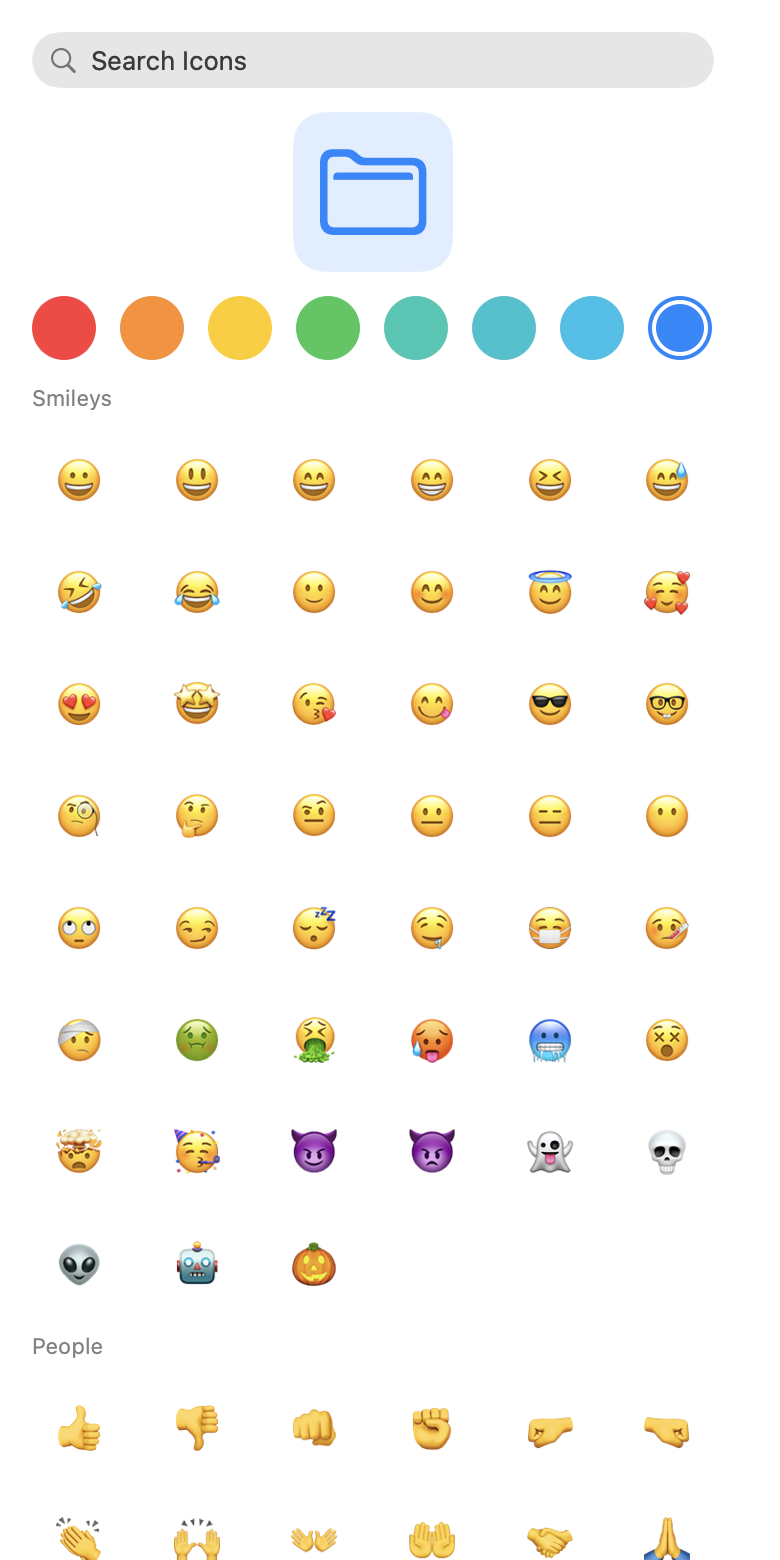
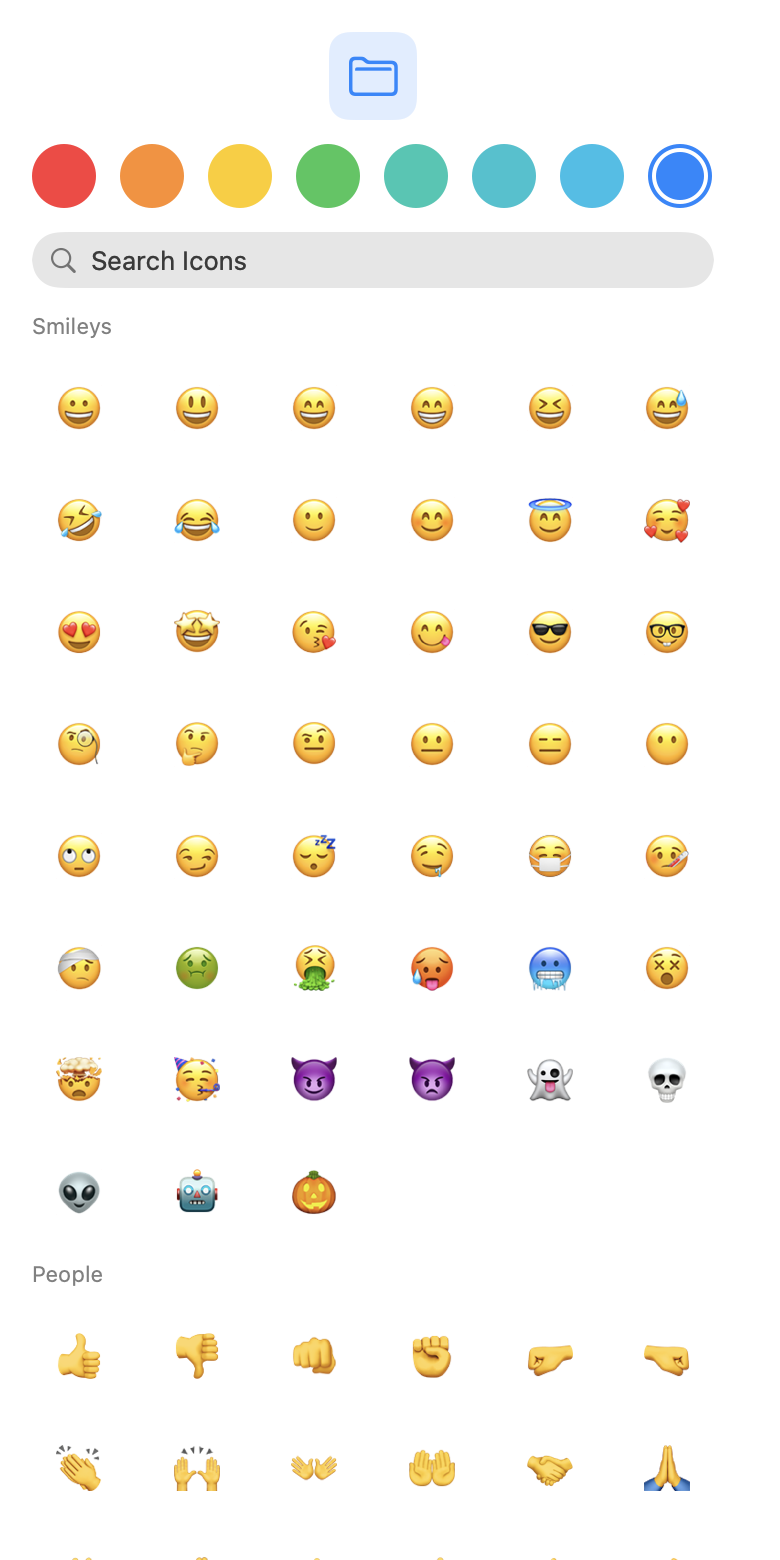
fix: shrink the preview and put search above the catalog
The hero tile was too large. Preview is cell-sized; search sits
under the colors so the grid is the main surface.

diff --git a/Sources/IconPickerKit/IconPickerView.swift b/Sources/IconPickerKit/IconPickerView.swift
@@ -16,7 +16,7 @@ public struct IconPickerView: View {
     @State private var debounce = SearchDebounce()
     @State private var origin = ContinuousClock.now
 
-    @ScaledMetric(relativeTo: .largeTitle) private var previewSize: CGFloat = 48
+    @ScaledMetric(relativeTo: .title3) private var previewIconSize: CGFloat = IconPickerLayout.previewIconSize
     @ScaledMetric(relativeTo: .title3) private var cellFont: CGFloat = 22
     @ScaledMetric(relativeTo: .title3) private var cellSize: CGFloat = 44
 
@@ -42,9 +42,9 @@ public struct IconPickerView: View {
     public var body: some View {
         ScrollView {
             VStack(spacing: IconPickerLayout.sectionSpacing) {
-                self.search
                 self.preview
                 self.colorSection
+                self.search
                 self.catalog
             }
             .padding(.vertical)
@@ -64,16 +64,16 @@ public struct IconPickerView: View {
         Group {
             if self.icon.isEmoji {
                 Text(verbatim: self.icon)
-                    .font(.system(size: self.previewSize))
+                    .font(.system(size: self.previewIconSize))
             } else {
                 Image(systemName: self.icon)
-                    .font(.system(size: self.previewSize))
+                    .font(.system(size: self.previewIconSize))
                     .foregroundStyle(self.color.color)
             }
         }
-        .frame(width: 80, height: 80)
+        .frame(width: IconPickerLayout.previewSize, height: IconPickerLayout.previewSize)
         .background(
-            RoundedRectangle(cornerRadius: 16)
+            RoundedRectangle(cornerRadius: 10)
                 .fill(self.color.color.opacity(0.15)))
         .accessibilityHidden(true)
     }

diff --git a/Sources/IconPickerKit/IconPickerLayout.swift b/Sources/IconPickerKit/IconPickerLayout.swift
@@ -6,6 +6,8 @@ enum IconPickerLayout {
     static let horizontalInset: CGFloat = 16
     static let controlHeight: CGFloat = 28
     static let swatchSize: CGFloat = 32
+    static let previewSize: CGFloat = 44
+    static let previewIconSize: CGFloat = 22
 
     static var sectionSpacing: CGFloat { self.stackSpacing }
     static var spacingAboveSearch: CGFloat { self.stackSpacing }

diff --git a/CHANGELOG.md b/CHANGELOG.md
@@ -18,6 +18,7 @@ All notable changes to IconPickerKit are recorded here. The format follows
 ### Changed
 
 - `IconPickerView` shows one meaning-grouped catalog of emoji and SF Symbols. No Emojis/Symbols mode switch.
+- Preview is cell-sized; search sits under the color strip, above the catalog.
 - `IconCatalog.search` returns named sections; an empty query is the full catalog.
 - The emoji/symbol control hides its extra macOS picker title. The section header already names it.
 
